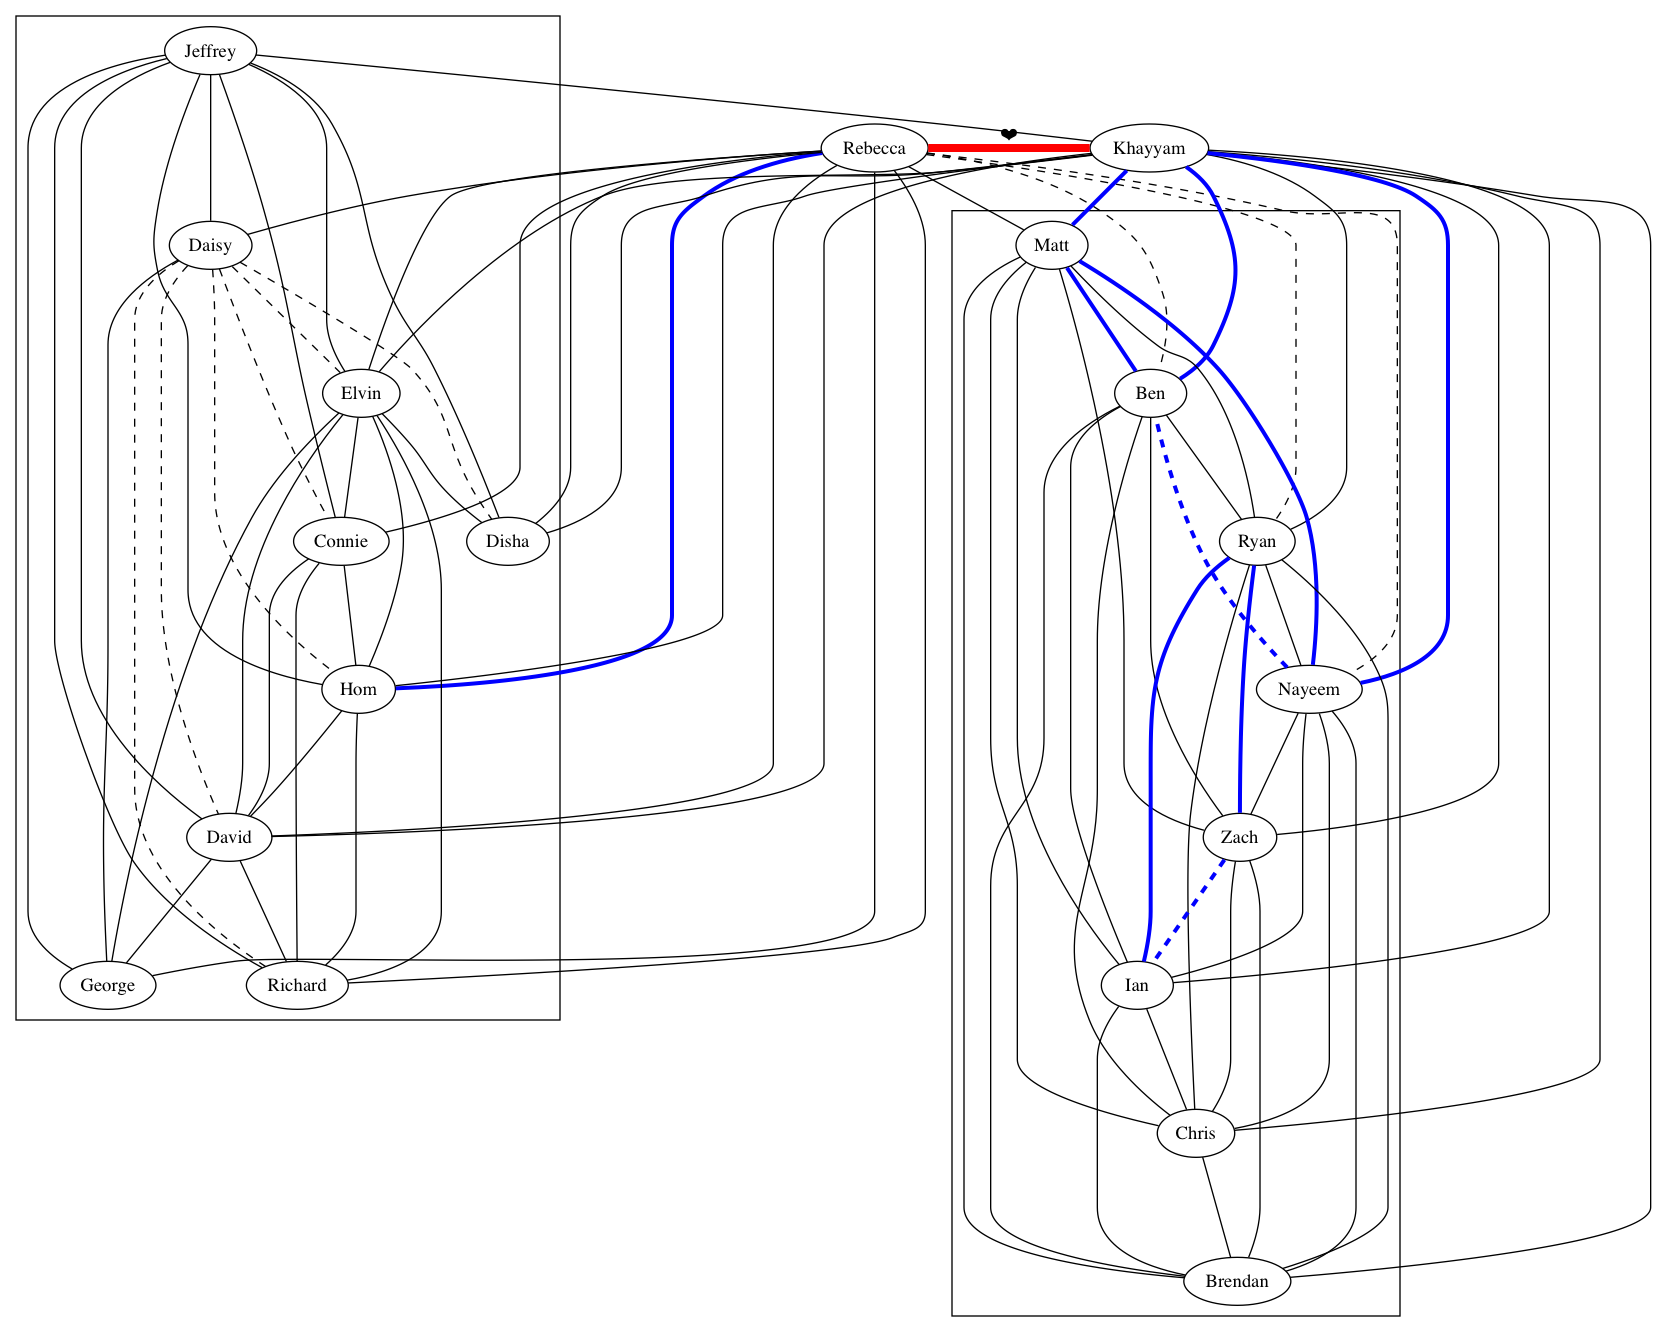
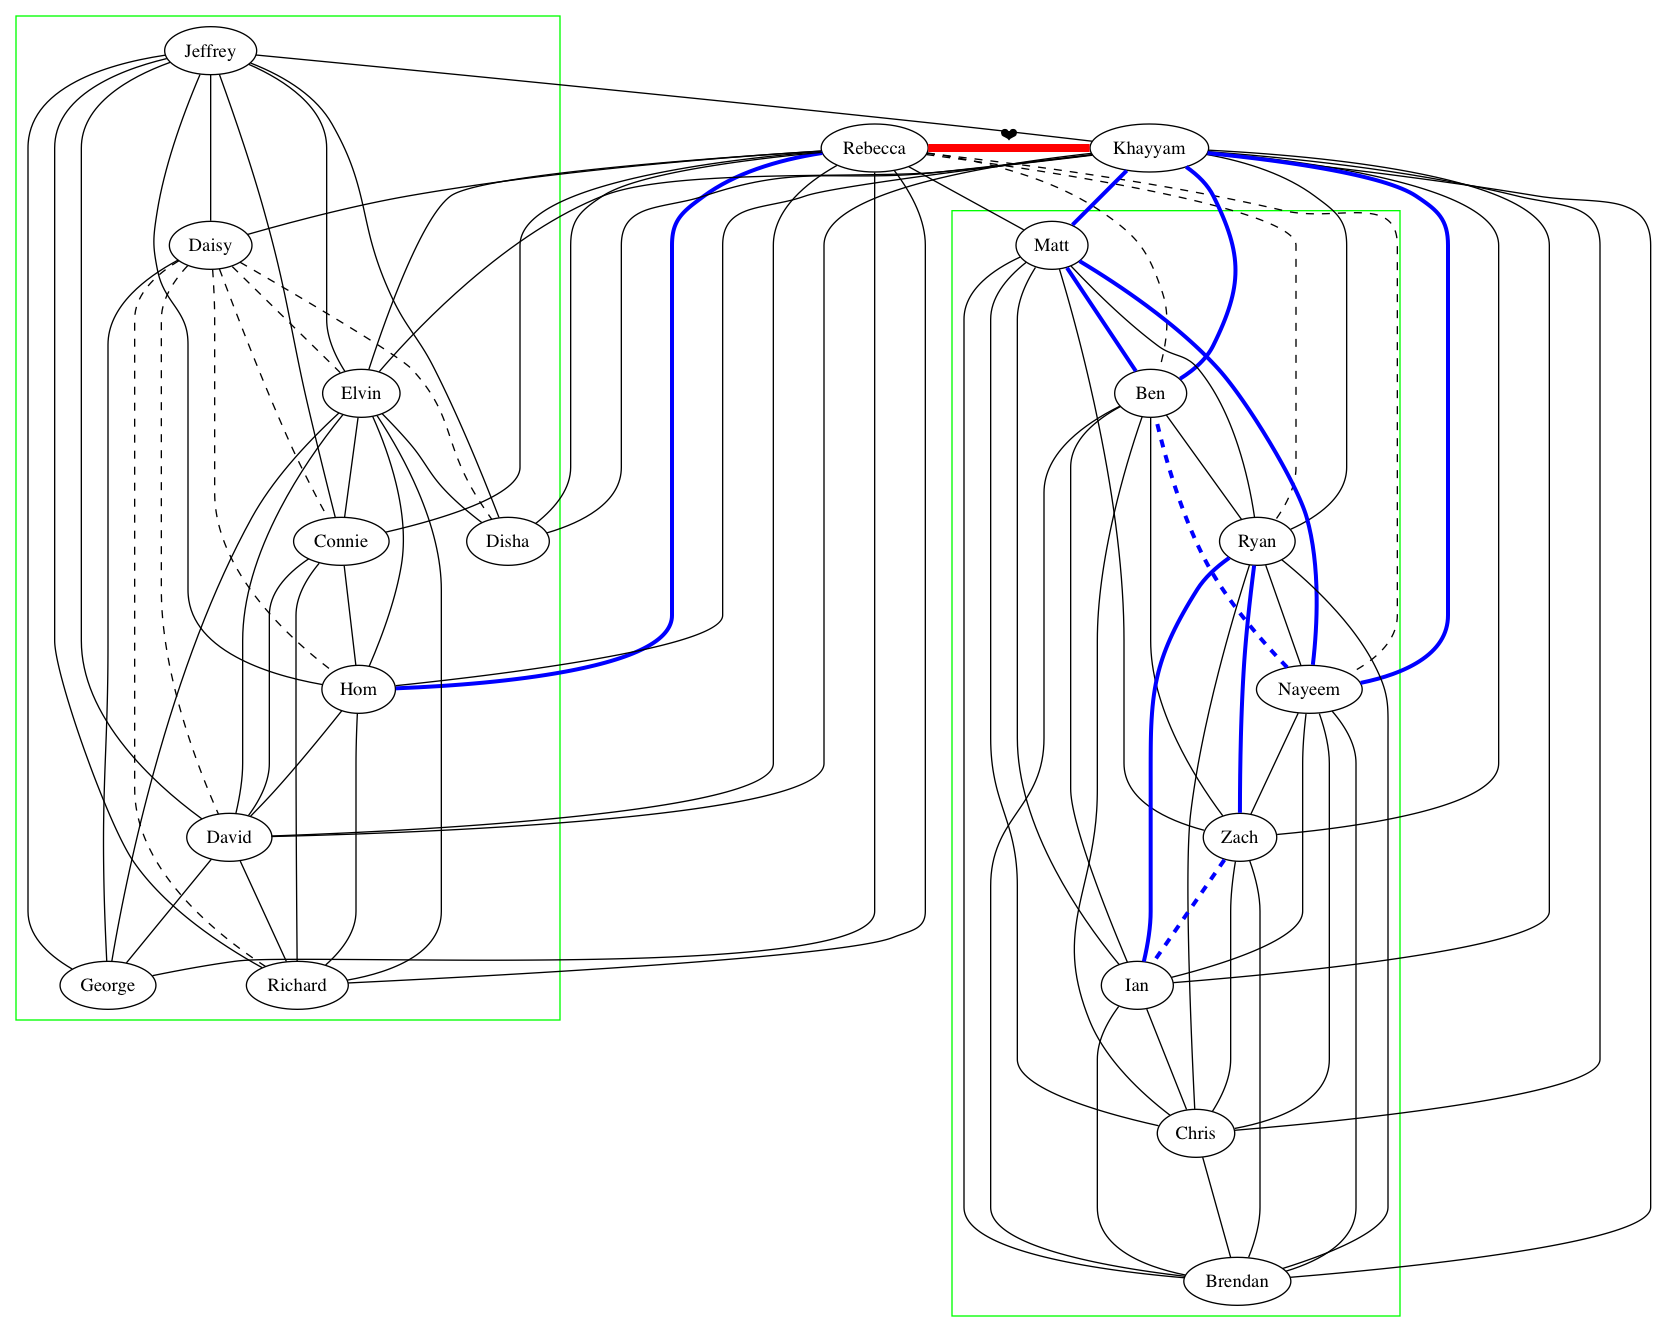
added colors to friend graph

diff --git a/friend_graph.html b/friend_graph.html
@@ -3,7 +3,7 @@
 "http://www.w3.org/TR/xhtml1/DTD/xhtml1-strict.dtd">
 <html xmlns="http://www.w3.org/1999/xhtml" lang="en" xml:lang="en">
 <head>
-<!-- 2018-09-12 Wed 14:20 -->
+<!-- 2018-09-12 Wed 14:27 -->
 <meta http-equiv="Content-Type" content="text/html;charset=utf-8" />
 <meta name="viewport" content="width=device-width, initial-scale=1" />
 <title>Friends</title>
@@ -236,10 +236,12 @@ for the JavaScript code in this tag.
 
     subgraph cluster_R {
       George Daisy Connie Richard Hom Disha David Elvin Jeffrey
+      color=green;
     }
 
     subgraph cluster_H {
       Matt Ben Ryan Zach Ian Chris Brendan Nayeem
+      color=green;
     }
 
 
@@ -289,7 +291,7 @@ for the JavaScript code in this tag.
 </div>
 <div id="postamble" class="status">
 <p class="author">Author: Khayyam Saleem, Rebecca Shi</p>
-<p class="date">Created: 2018-09-12 Wed 14:20</p>
+<p class="date">Created: 2018-09-12 Wed 14:27</p>
 <p class="validation"><a href="http://validator.w3.org/check?uri=referer">Validate</a></p>
 </div>
 </body>
